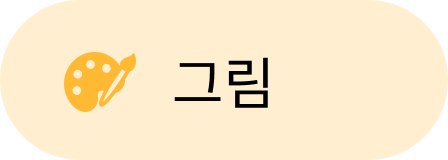
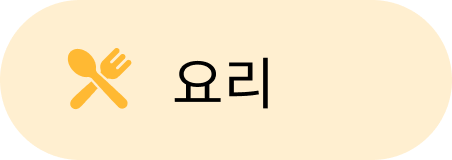
keep_1

Changed region(s): [[0.375, 0.3438, 0.625, 0.6875], [0.125, 0.2812, 0.3125, 0.7188]]

diff --git a/src/components/SurveyInterest.css b/src/components/SurveyInterest.css
@@ -1,0 +1,113 @@
+/* src/components/SurveyInterest.css */
+.survey-interest {
+  position: relative;
+  width: 375px;
+  height: 812px;
+  background: #FFFFFF;
+}
+
+.back-arrow {
+  position: absolute;
+  width: 24px;  /* 크기 수정 */
+  height: 24px;  /* 크기 수정 */
+  left: 20px;
+  top: 62px;
+  cursor: pointer;
+  object-fit: contain;  /* 추가 */
+}
+
+.progress-bar {
+  position: absolute;
+  width: 180px;
+  height: 8px;
+  left: calc(50% - 180px/2 - 0.5px);
+  top: 62px;
+  background: #FFE9F1;
+  border-radius: 50px;
+}
+
+.progress {
+  position: absolute;
+  width: 80px;
+  height: 8px;
+  left: calc(50% - 80px/2 - 50.5px);
+  top: 0;
+  background: #FFB933;
+  border-radius: 50px;
+}
+
+h1 {
+  position: absolute;
+  width: 313px;
+  height: 42px;
+  left: calc(50% - 313px/2 + 13px);
+  top: 116px;
+  font-family: 'Ownglyph meetme';
+  font-style: normal;
+  font-weight: 400;
+  font-size: 36px;
+  line-height: 42px;
+  text-align: center;
+  color: #000000;
+}
+
+.interests-container {
+  position: absolute;
+  width: 325px;
+  left: calc(50% - 325px/2);
+  top: 232px;
+  display: flex;
+  flex-wrap: wrap;
+  justify-content: space-between;
+}
+
+.interest-option {
+  width: 143px;
+  height: 40px;
+  display: flex;
+  align-items: center;
+  justify-content: center;
+  border-radius: 50px;
+  cursor: pointer;
+  margin-bottom: 12px;
+}
+
+.interest-icon {
+  width: 100%;
+  height: 100%;
+  object-fit: contain;
+}
+
+p {
+  position: absolute;
+  width: 315px;
+  height: 20px;
+  left: calc(50% - 315px/2);
+  top: 559px;
+  font-family: 'Inter';
+  font-style: normal;
+  font-weight: 700;
+  font-size: 15px;
+  line-height: 20px;
+  text-align: center;
+  color: #FF0000;
+}
+
+.next-button {
+  position: absolute;
+  width: 325px;
+  height: 56px;
+  left: calc(50% - 325px/2);
+  top: 660px;
+  background: #FFB933;
+  border-radius: 50px;
+  font-family: 'Inter';
+  font-style: normal;
+  font-weight: 600;
+  font-size: 18px;
+  line-height: 22px;
+  text-align: center;
+  color: #FFFFFF;
+  border: none;
+  cursor: pointer;
+}
